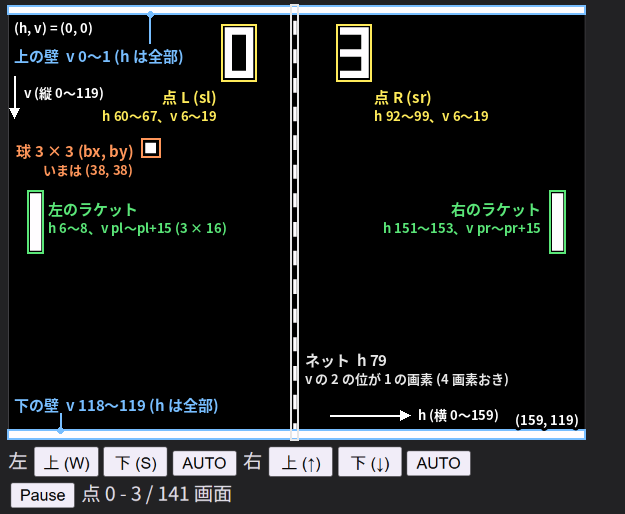
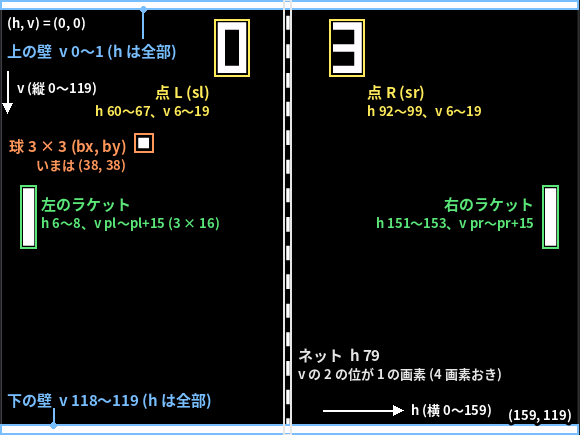
docs: 12-3 の図1 を、ゲーム画面の部分だけに切り出す
ボタンの行 (上・下・AUTO・Pause と点・画面数) と、画面の外の余白は、画面のつくりの説明に要らないので載せない。
重ねるスクリプトに切り出しを足した (580 × 435)。

🤖 Generated with [Claude Code](https://claude.com/claude-code)

diff --git a/06-fpga/12-projects/sim/03-pong-screen-overlay.py b/06-fpga/12-projects/sim/03-pong-screen-overlay.py
@@ -1,6 +1,7 @@
 # 12-3 の図1: 公開ページのスクリーンショットに、形の名前と位置の数を重ねる
 #   python3 -I 03-pong-screen-overlay.py 03-pong-screen-raw.png ../03-pong-screen.png
 # スクリーンショット (raw) は https://tommie-jp.github.io/soft-fpga/91-pong/ を開いて撮った (625 × 514)。
+# 出力は、ゲーム画面の部分だけを切り出した画像 (ボタンの行と画面の外の余白は含めない)。
 # 画面は 1 画素 3.6 画素、左上が (x, y) = (8.4, 6.0)。フォントは Noto Sans CJK JP Bold。
 import sys
 from PIL import Image, ImageDraw, ImageFont
@@ -65,5 +66,7 @@ d.line([(330, 415), (400, 415)], fill=(255, 255, 255), width=2); d.polygon([(400
 text((418, 414), 'h (横 0〜159)', (255, 255, 255), fs, anchor='lm')
 d.line([(14, 76), (14, 108)], fill=(255, 255, 255), width=2); d.polygon([(9, 108), (14, 118), (19, 108)], fill=(255, 255, 255))
 text((24, 92), 'v (縦 0〜119)', (255, 255, 255), fs, anchor='lm')
+# ゲーム画面 (canvas) の部分だけを切り出す。下のボタンの行と、画面の外の余白は要らない
+im = im.crop((int(OX) - 1, int(OY) - 1, int(OX + 160 * S) + 3, int(OY + 120 * S) + 2))
 im.save(out, optimize=True)
 print(im.size, 'ball', bx, by)

diff --git a/06-fpga/12-projects/03-pong.md b/06-fpga/12-projects/03-pong.md
@@ -37,9 +37,9 @@ device: WEB
 
 ## 画面のつくり
 
-![図1 Pong の画面 (soft-fpga の公開ページのスクリーンショットに、形の名前と位置の数を重ねた)](03-pong-screen.png)
+![図1 Pong の画面 (soft-fpga の公開ページのゲーム画面に、形の名前と位置の数を重ねた)](03-pong-screen.png)
 
-図1 画面は横 160 × 縦 120 画素。壁・ラケット・ネット・点・球を、比較器で 1 つずつ描く (公開ページのスクリーンショットに、形の名前と位置の数を重ねた)。
+図1 画面は横 160 × 縦 120 画素。壁・ラケット・ネット・点・球を、比較器で 1 つずつ描く (公開ページのゲーム画面の部分に、形の名前と位置の数を重ねた)。
 
 - 左上が (h, v) = (0, 0)、右下が (159, 119)。**h が横、v が縦**。画面は 1 画素を約 3.6 画素に拡大して写してあり、位置はこの縮尺で合っている
 - 枠の色は種類を表す。青が壁、緑がラケット、黄が点、白がネット、橙が球
@@ -572,6 +572,6 @@ PASS
 `examples/02-traffic-fsm` (`cxx/harness.cpp`、`web/index.html`、`scripts/build-wasm-02.sh`) と、それをまねた 4-7 の 90-switches に倣った。
 91-pong はこの題のために書いた。soft-fpga のリポジトリの `examples/91-pong` に足し (`pong.v`・`cxx/harness.cpp`・`web/index.html`・`scripts/build-wasm-91.sh`)、GitHub Pages に公開した。公開ページには Logic Analyzer が付いていて (「Logic Analyzer で見る」)、本文の `harness.cpp` はその記録を省いた最小の版である。
 
-図1 は、公開ページ (soft-fpga の 91-pong) のスクリーンショット (`sim/03-pong-screen-raw.png`) に、`sim/03-pong-screen-overlay.py` (Pillow) で形の名前と位置の数を重ねた。
+図1 は、公開ページ (soft-fpga の 91-pong) のスクリーンショット (`sim/03-pong-screen-raw.png`) に、`sim/03-pong-screen-overlay.py` (Pillow) で形の名前と位置の数を重ね、ゲーム画面の部分だけを切り出した (ボタンの行は載せていない)。
 
 - 1972 年の Pong が TTL の回路で設計されたこと、ラケットを 8 つに区切って返す角度を変えていたこと: Wikipedia の [Pong](https://en.wikipedia.org/wiki/Pong) の項 (Development and history)。この題のラケットは端の 4 画素とそのほかの 3 つに区切った
